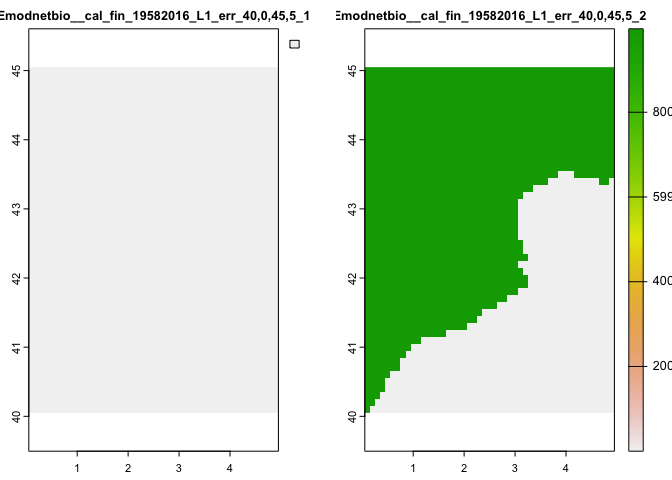
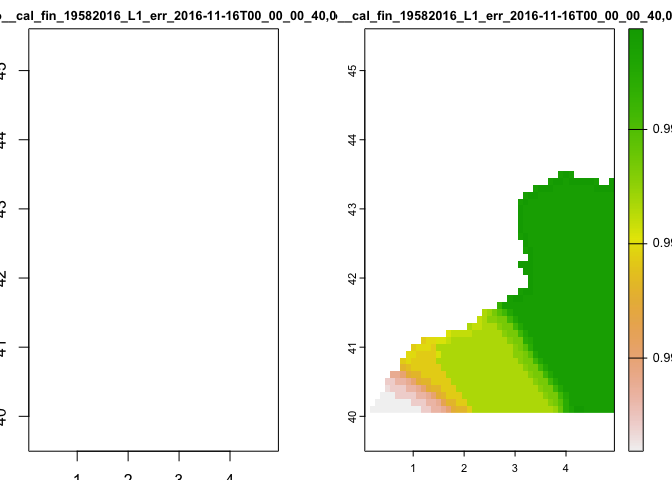
use nil_as_na as standard in documentation

diff --git a/README.md b/README.md
@@ -25,7 +25,7 @@ standard created by the OGC that refers to the receiving of geospatial
 information as ‘coverages’: digital geospatial information representing
 space-varying phenomena. One can think of it as Web Feature Service
 (WFS) for raster data. It gets the ‘source code’ of the map, but in this
-case it's not raw vectors but raw imagery.
+case it’s not raw vectors but raw imagery.
 
 An important distinction must be made between WCS and Web Map Service
 (WMS). They are similar, and can return similar formats, but a WCS is
@@ -46,13 +46,8 @@ Load the library
 
 ``` r
 library(EMODnetWCS)
-#> Loading required package: ows4R
-#> Loading required package: geometa
 #> Loading ISO 19139 XML schemas...
 #> Loading ISO 19115 codelists...
-#> Loading IANA mime types...
-#> No encoding supplied: defaulting to UTF-8.
-#> Loading required package: keyring
 ```
 
 ## Available services
@@ -245,7 +240,8 @@ cov <- emdn_get_coverage(wcs,
                   bbox = c(xmin = 0, 
                            ymin = 40, 
                            xmax = 5, 
-                           ymax = 45)
+                           ymax = 45),
+                  nil_values_as_na = TRUE
                   )
 #> ── Downloading coverage "Emodnetbio__cal_fin_19582016_L1_err" ──────────────────
 #> <GMLEnvelope>
@@ -254,6 +250,7 @@ cov <- emdn_get_coverage(wcs,
 #> 
 #> ✔ Coverage "Emodnetbio__cal_fin_19582016_L1_err" downloaded succesfully as a
 #> terra <SpatRaster>
+#> ✔ nil values 9.96920996838687e+36 converted to NA on all bands.
 
 cov
 #> class       : SpatRaster 
@@ -261,16 +258,14 @@ cov
 #> resolution  : 0.1, 0.1  (x, y)
 #> extent      : 0.05, 4.95, 40.05, 45.05  (xmin, xmax, ymin, ymax)
 #> coord. ref. : lon/lat WGS 84 (EPSG:4326) 
-#> source      : Emodnetbio__cal_fin_19582016_L1_err_2016-11-16T00_00_00.000Z_40,0,45,5.tif 
-#> names       : Emodnetbio__cal~00Z_40,0,45,5_1, Emodnetbio__cal~00Z_40,0,45,5_2
+#> source      : memory 
+#> names       : Emodnetbio__cal~_00_40,0,45,5_1, Emodnetbio__cal~_00_40,0,45,5_2 
+#> min values  :                             NaN,                       0.9999981 
+#> max values  :                             NaN,                       0.9999999
 ```
 
 ``` r
 terra::plot(cov)
-#> Warning in .as.raster.classes(out, x): NAs introduced by coercion to integer
-#> range
-#> Warning in .get_breaks(Z, length(out$cols), "eqint", out$range): probable
-#> complete loss of accuracy in modulus
 ```
 
 <img src="man/figures/README-unnamed-chunk-3-1.png" width="100%" />
@@ -290,7 +285,7 @@ citation(package = "EMODnetWCS")
 #> To cite package 'EMODnetWCS' in publications use:
 #> 
 #>   Krystalli A (2022). _EMODnetWCS: Access EMODnet Web Coverage Service
-#>   data through R_. R package version 0.0.0.9011. Integrated data
+#>   data through R_. R package version 0.0.0.9012. Integrated data
 #>   products created under the European Marine Observation Data Network
 #>   (EMODnet) Biology project (EASME/EMFF/2017/1.3.1.2/02/SI2.789013),
 #>   funded by the European Union under Regulation (EU) No 508/2014 of the
@@ -303,7 +298,7 @@ citation(package = "EMODnetWCS")
 #>     title = {{EMODnetWCS}: Access EMODnet Web Coverage Service data through R},
 #>     author = {Anna Krystalli},
 #>     year = {2022},
-#>     note = {R package version 0.0.0.9011. Integrated data products created under the European Marine Observation Data Network (EMODnet) Biology project (EASME/EMFF/2017/1.3.1.2/02/SI2.789013), funded by the European Union under Regulation (EU) No 508/2014 of the European Parliament and of the Council of 15 May 2014 on the European Maritime and Fisheries Fund},
+#>     note = {R package version 0.0.0.9012. Integrated data products created under the European Marine Observation Data Network (EMODnet) Biology project (EASME/EMFF/2017/1.3.1.2/02/SI2.789013), funded by the European Union under Regulation (EU) No 508/2014 of the European Parliament and of the Council of 15 May 2014 on the European Maritime and Fisheries Fund},
 #>     url = {https://github.com/EMODnet/EMODnetWCS},
 #>   }
 ```
